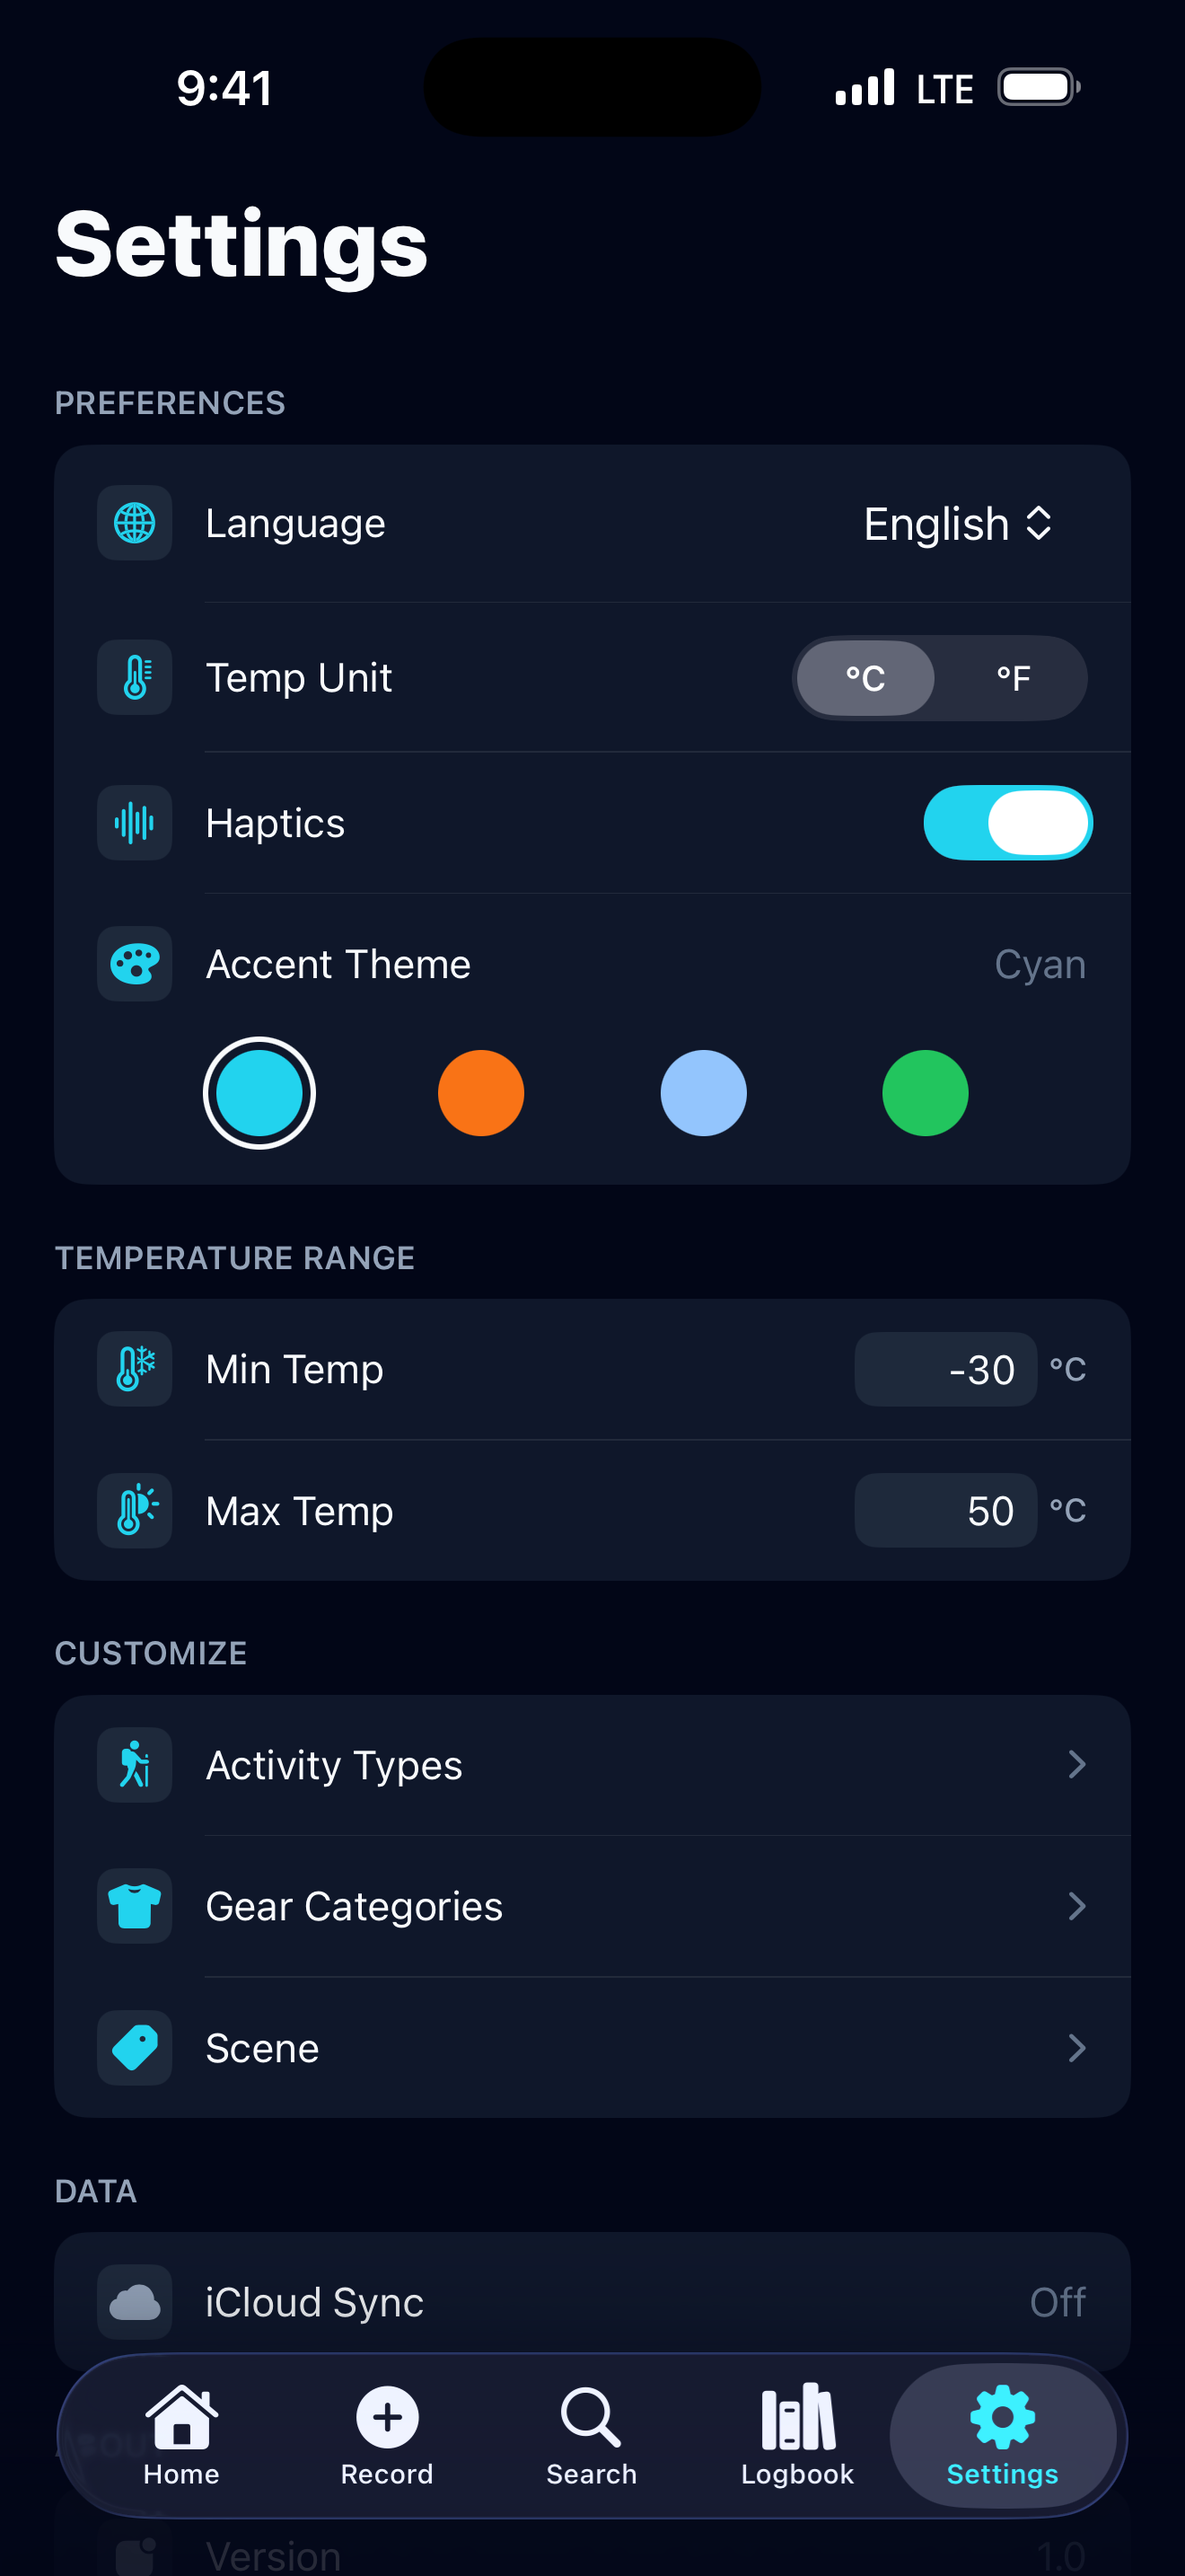
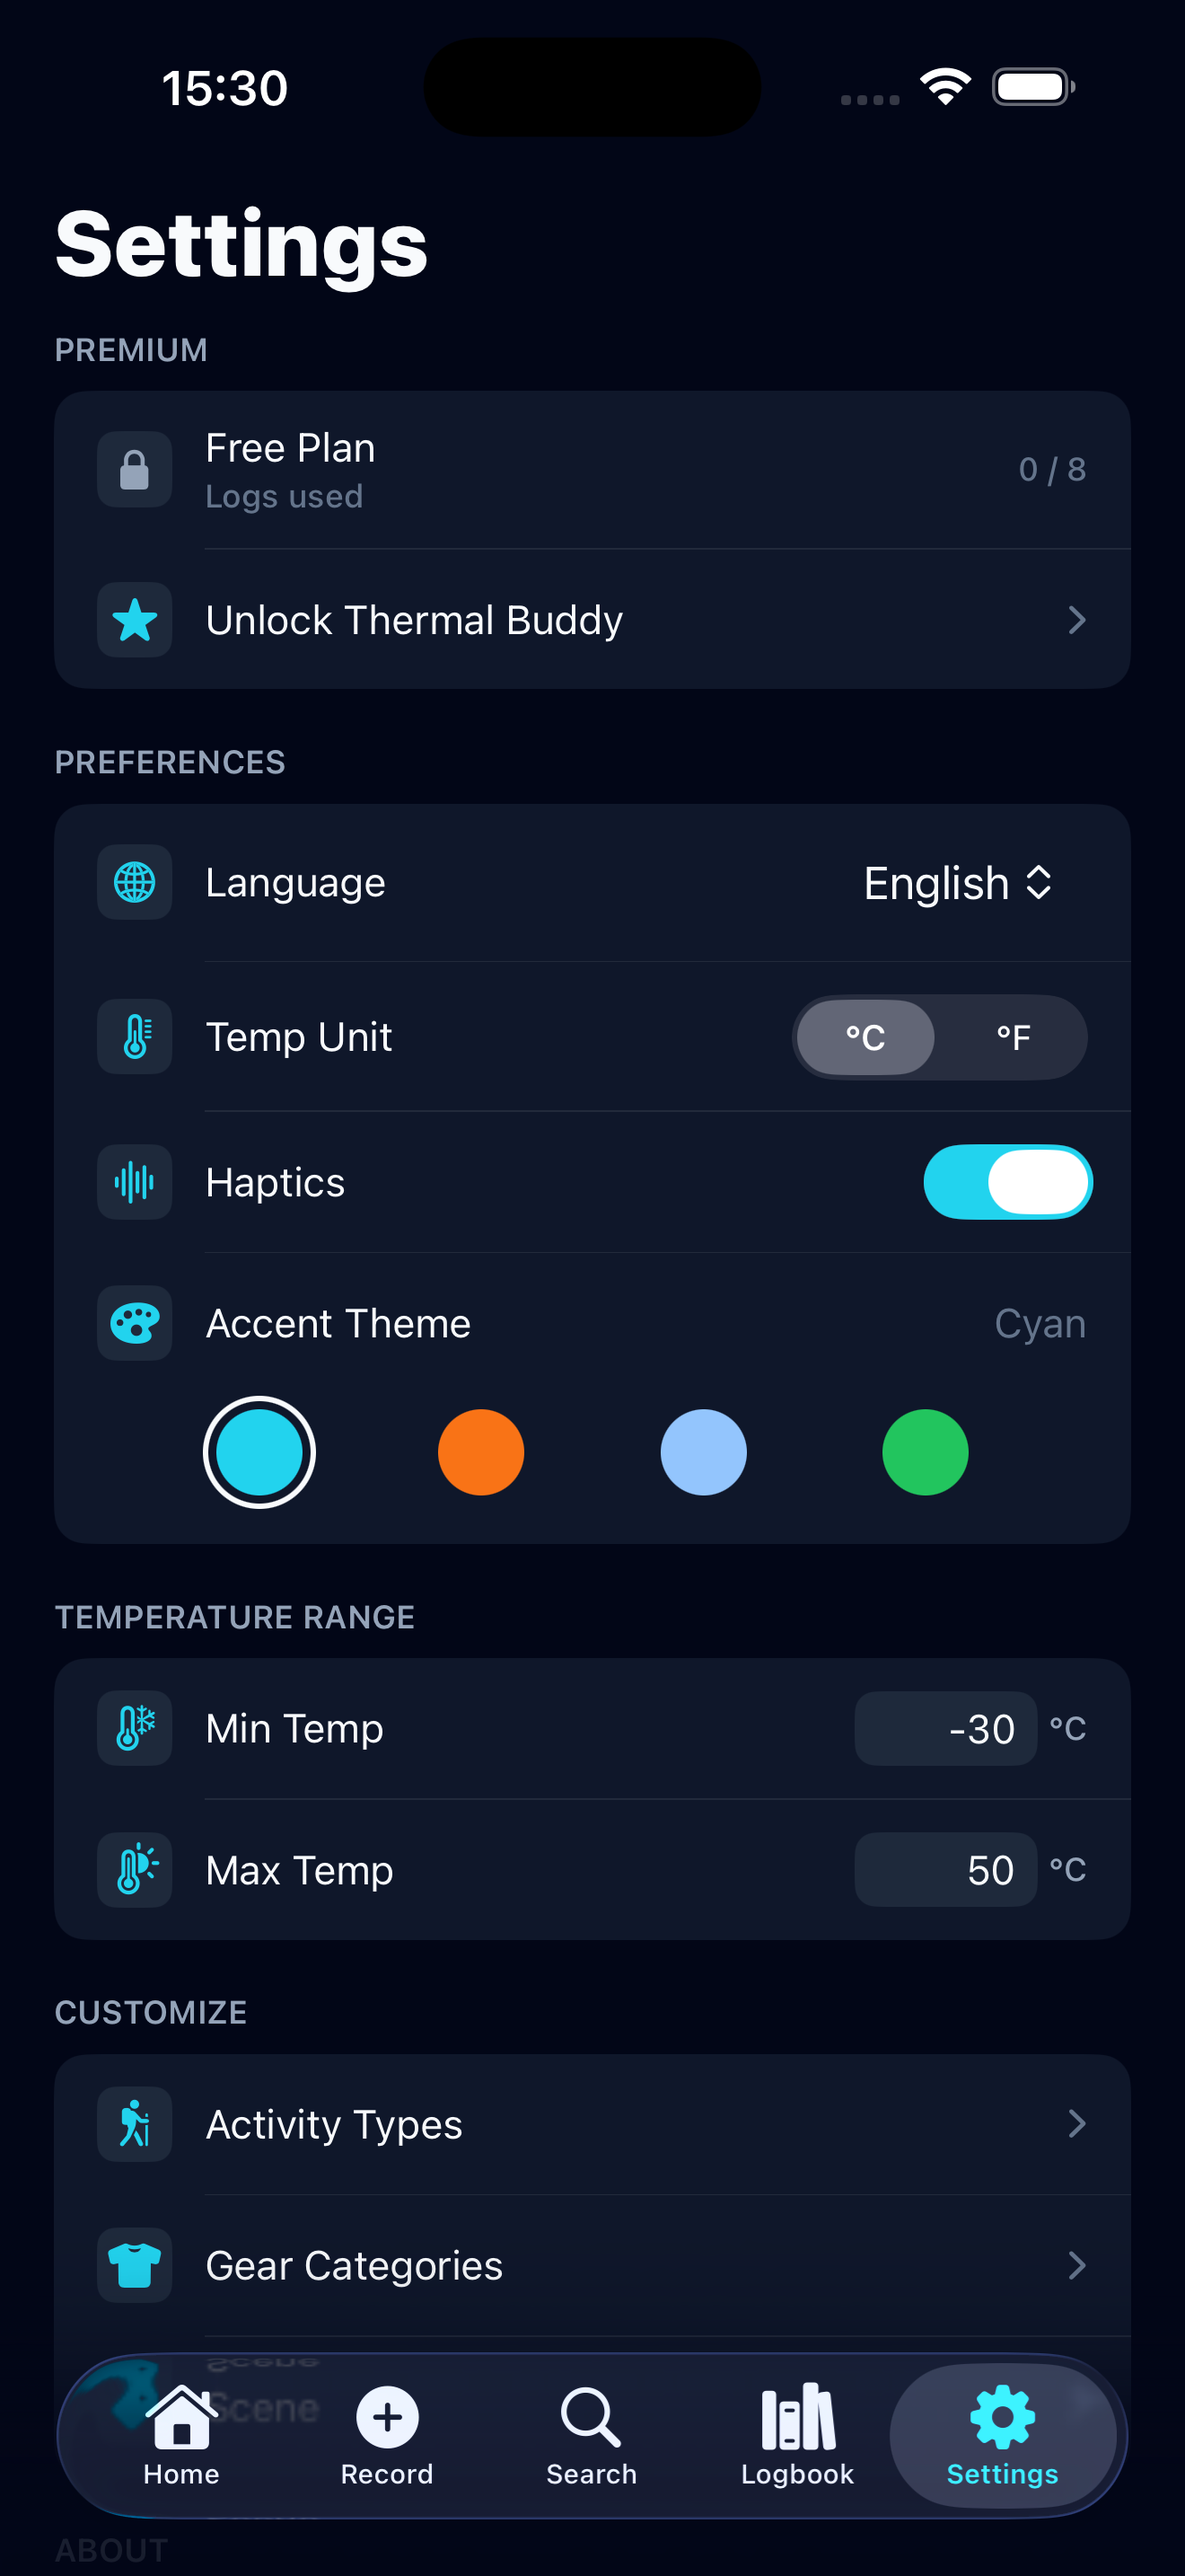
Update FAQ: new Settings screenshots and iCloud sync toggle guide
- Replace en-settings-main.png and jp-settings-main.png with v1.0.0(4) screenshots (Sign in with Apple and iCloud sync rows removed)
- Add 'How do I turn iCloud sync on or off?' Q&A in EN and JP explaining the iOS Settings path
- Update existing iCloud troubleshooting entry to reference the new Q&A

Made-with: Cursor

diff --git a/jp/faq.md b/jp/faq.md
@@ -40,6 +40,7 @@ title: よくある質問 (FAQ)
 - [データと同期](#データと同期)
   - [データはどこに保存されますか？](#データはどこに保存されますか)
   - [iCloud 同期に対応していますか？](#icloud-同期に対応していますか)
+  - [iCloud 同期のオン／オフを切り替えるには？](#icloud-同期のオンオフを切り替えるには)
   - [開発者がログを見ることはありますか？](#開発者がログを見ることはありますか)
 - [プライバシーと AI](#プライバシーと-ai)
   - [生成 AI はデータに使われていますか？](#生成-ai-はデータに使われていますか)
@@ -314,6 +315,22 @@ Settings では以下をカスタマイズできます：
 
 ---
 
+### iCloud 同期のオン／オフを切り替えるには？
+
+iCloud 同期の設定は、Thermal Buddy アプリ内ではなく、iPhone の「設定」アプリから行います。
+
+**切り替え方法：**
+
+1. iPhone の**設定**アプリを開く
+2. 画面上部の自分の名前（Apple アカウント）をタップ
+3. **iCloud** をタップ
+4. **iCloudを使用しているApp** をタップ（**すべてを表示**が必要な場合あり）
+5. **Thermal Buddy** を探してトグルをオン／オフ
+
+同期をオフにすると、ログは現在のデバイスにのみ保存され、同じ iCloud アカウントにサインインしている他の Apple デバイスには表示されません。
+
+---
+
 ### 開発者がログを見ることはありますか？
 
 ありません。ユーザーが作成したデータに開発者はアクセスできません。
@@ -334,8 +351,8 @@ Settings では以下をカスタマイズできます：
 
 以下をご確認ください：
 - デバイスで iCloud にサインインしている
+- **設定 → [お名前] → iCloud → iCloudを使用しているApp** で Thermal Buddy が有効になっている（[iCloud 同期のオン／オフを切り替えるには？](#icloud-同期のオンオフを切り替えるには) を参照）
 - iCloud Drive が有効になっている
-- iOS 設定 → Apple アカウント → iCloud で Thermal Buddy の使用が許可されている
 - ネットワークに接続されている
 
 それでも解決しない場合は、GitHub で報告してください。

diff --git a/faq.md b/faq.md
@@ -40,6 +40,7 @@ title: FAQ
 - [Data & Sync](#data--sync)
   - [Where is my data stored?](#where-is-my-data-stored)
   - [Does the app support iCloud sync?](#does-the-app-support-icloud-sync)
+  - [How do I turn iCloud sync on or off?](#how-do-i-turn-icloud-sync-on-or-off)
   - [Can the developer see my personal logs?](#can-the-developer-see-my-personal-logs)
 - [Privacy & AI](#privacy--ai)
   - [Does Thermal Buddy use generative AI for my data?](#does-thermal-buddy-use-generative-ai-for-my-data)
@@ -314,6 +315,22 @@ Yes. If iCloud is enabled on your device, your data syncs through your private i
 
 ---
 
+### How do I turn iCloud sync on or off?
+
+iCloud sync is controlled from your iPhone's Settings app, not from within Thermal Buddy.
+
+**To turn it on or off:**
+
+1. Open the iPhone **Settings** app
+2. Tap your name at the top (Apple Account)
+3. Tap **iCloud**
+4. Tap **Apps Using iCloud** (you may need to tap **Show All**)
+5. Find **Thermal Buddy** and toggle it on or off
+
+When sync is off, your logs remain on the current device only and will not appear on other Apple devices signed into the same iCloud account.
+
+---
+
 ### Can the developer see my personal logs?
 
 No. Your user-generated data is not accessible to us.
@@ -334,8 +351,8 @@ No. Thermal Buddy does not use generative AI to process your personal data. All 
 
 Please verify:
 - You are signed in to iCloud on your device
+- Thermal Buddy is enabled in **Settings → [Your Name] → iCloud → Apps Using iCloud** (see [How do I turn iCloud sync on or off?](#how-do-i-turn-icloud-sync-on-or-off))
 - iCloud Drive is enabled
-- Thermal Buddy is allowed to use iCloud in iOS Settings → Apple Account → iCloud
 - A network connection is available
 
 If sync still does not work, please report the issue on GitHub.
